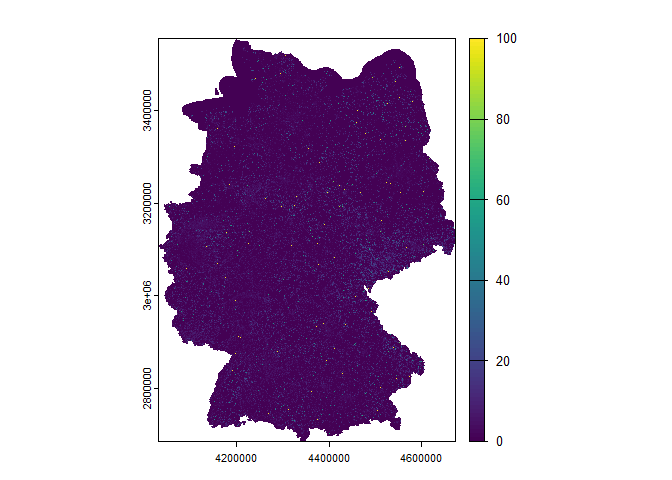
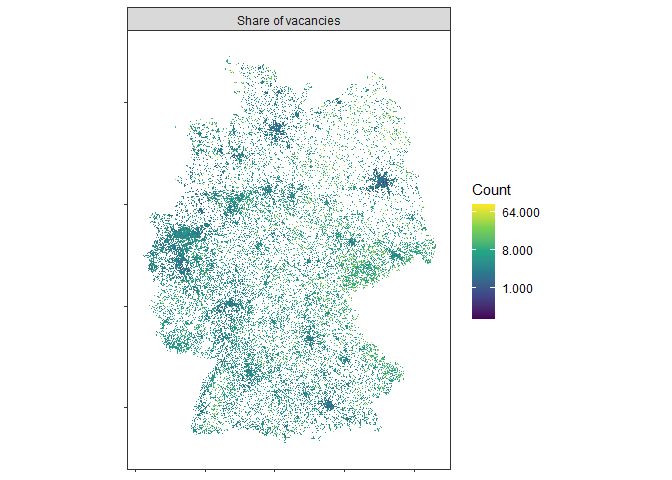
add: prettier readme figure

diff --git a/README.md b/README.md
@@ -50,14 +50,41 @@ library(z22)
 library(terra)
 #> terra 1.8.43
 
-grid_vac <- z22_data("vacancies", all_cells = TRUE, rasterize = TRUE)
+grid_vac <- z22_data("vacancies", res = "10km", rasterize = TRUE)
+grid_vac
+#> class       : SpatRasterDataset 
+#> subdatasets : 1 
+#> dimensions  : 87, 65 (nrow, ncol)
+#> nlyr        : 1 
+#> resolution  : 10000, 10000  (x, y)
+#> extent      : 4030050, 4680050, 2680050, 3550050  (xmin, xmax, ymin, ymax)
+#> coord. ref. : ETRS89-extended / LAEA Europe (EPSG:3035) 
+#> source(s)   : memory 
+#> names       : cat_0
 ```
+
+<details>
+<summary>
+Code for the plot
+</summary>
 
 ``` r
-plot(grid_vac$cat_0)
+library(ggplot2)
+
+df_vac <- z22_pivot_longer(grid_vac, "vacancies")
+ggplot(df_vac) +
+  geom_raster(aes(x, y, fill = value)) +
+  coord_sf(crs = 3035) + 
+  facet_wrap(~category, nrow = 2) +
+  scale_fill_viridis_c("Share", na.value = "transparent", transform = "log2") +
+  theme_bw() +
+  labs(x = NULL, y = NULL) +
+  theme(panel.grid = element_blank(), axis.text = element_blank())
 ```
 
-<img src="man/figures/README-unnamed-chunk-4-1.png" width="100%" />
+</details>
+
+<img src="man/figures/README-unnamed-chunk-5-1.png" width="100%" />
 
 ## Available data
 
